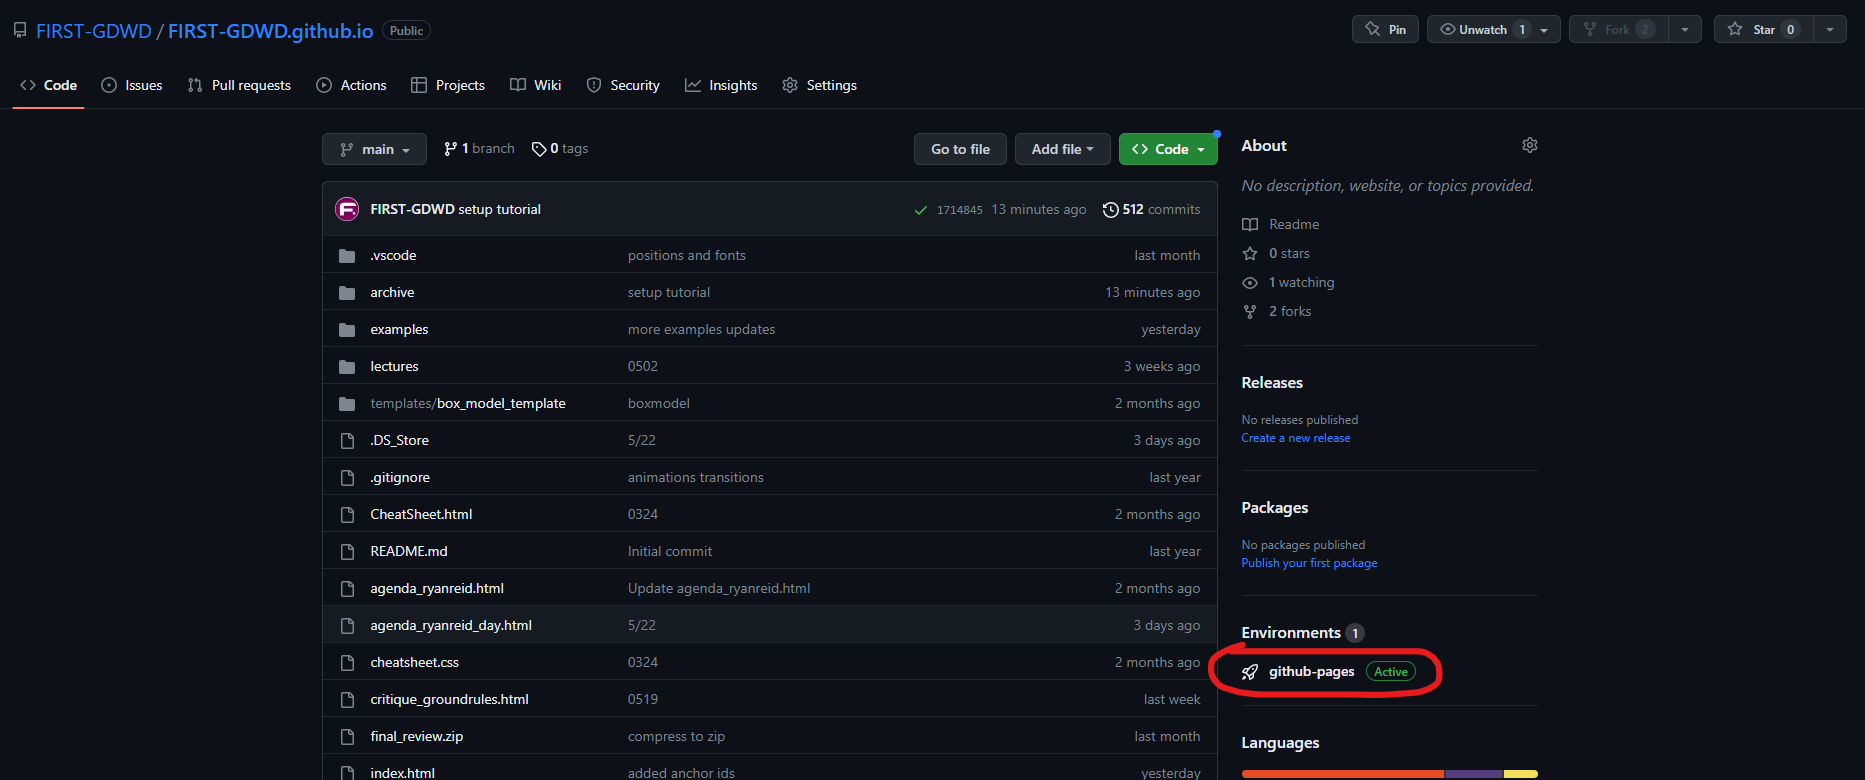
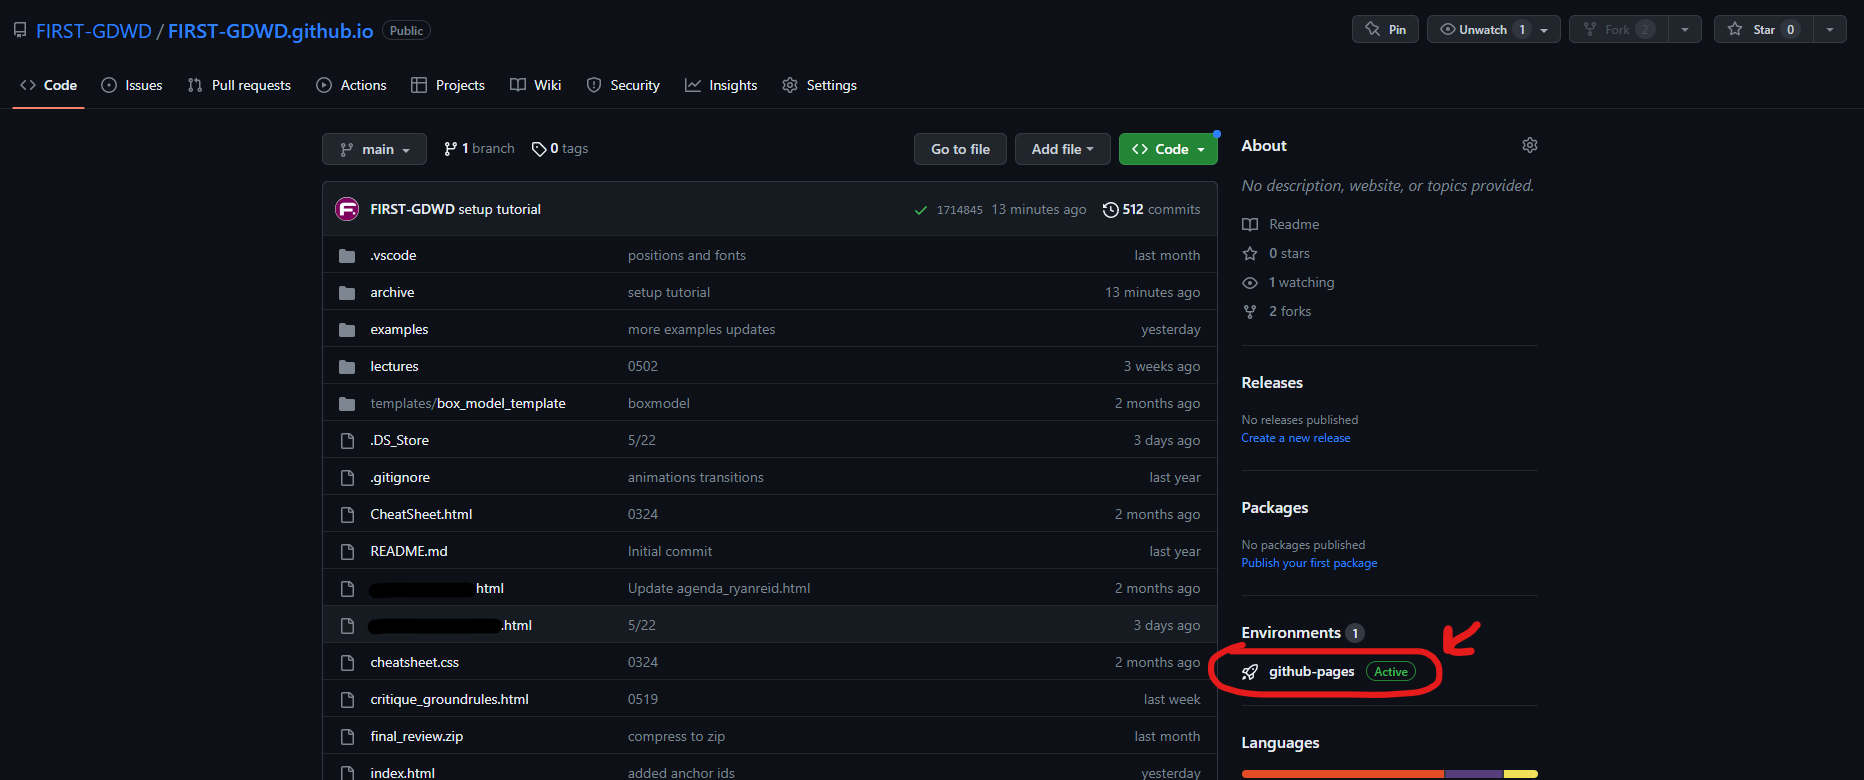
new deployments

diff --git a/cookbook/appetizers/web-dev-startup.html b/cookbook/appetizers/web-dev-startup.html
@@ -1476,10 +1476,19 @@
                                     your site is live.
                                 </strong>
                             </p>
+                            <br>
                             <p>
                                 Scroll down to the bottom of the 
                                 right sidebar and click on 
                                 "github-pages" under "Environments".
+                            </p>
+                            <p>
+                                <strong>
+                                    NOTE: Github recently updated their UI,
+                                    and you may see "Deployments" instead of
+                                    "Environments"; if so, click "Deployments"
+                                    instead for this step.
+                                </strong>
                             </p>
                         </div>
                         <div class="imageContainer">
@@ -1489,6 +1498,13 @@
                             >
                             <figcaption>
                                 The Environments section in github.com
+                            </figcaption>
+                            <img 
+                                src="images/web-dev-startup/deployments.png" 
+                                alt="The Deployments section in github.com" 
+                            >
+                            <figcaption>
+                                The Deployments section in github.com
                             </figcaption>
                         </div>
                     </div>
@@ -1505,6 +1521,18 @@
                                 the name of your repository, 
                                 from your README.md file). 
                             </p>
+                            <p>
+                                <strong>
+                                    NOTE: Again, Github recently updated their UI,
+                                    so you may see a different view than the 
+                                    first screenshot.
+                                    <br><br>
+                                    If so, refer to the second
+                                    screenshot, and click the "pop-out"
+                                    icon at the far right of the most recent 
+                                    deployment.
+                                </strong>
+                            </p>
                         </div>
                         <div class="imageContainer">
                             <img 
@@ -1513,8 +1541,18 @@
                             >
                             <figcaption>
                                 The Deployments page in github.com, 
-                                where you can access 
-                                your homepage
+                                where you can access your homepage<br>via the 
+                                "View Deployment" button
+                            </figcaption>
+                            <img 
+                                src="images/web-dev-startup/deploymentpage_new.png" 
+                                alt="The (new) Deployments page in github.com, where you can access your homepage" 
+                            >
+                            <figcaption>
+                                The (new) Deployments page in github.com, 
+                                where you can access your homepage<br>via the 
+                                "popout" icon at the far right of the most 
+                                recent deployment 
                             </figcaption>
                         </div>
                     </div>
